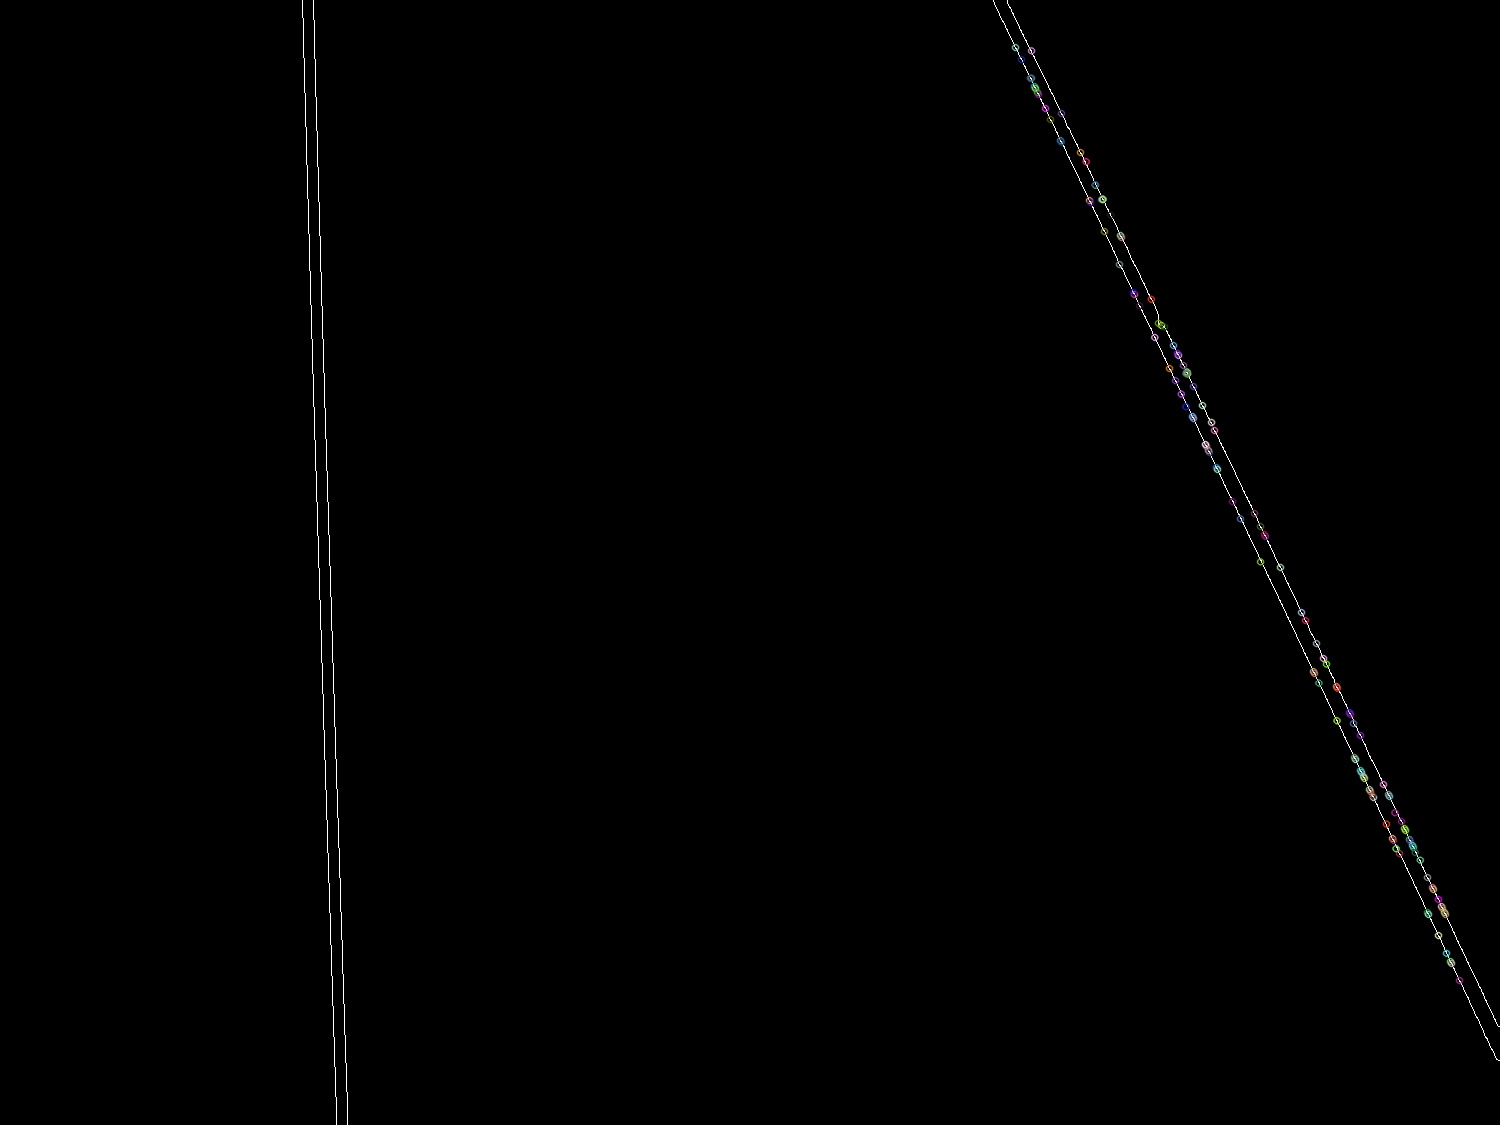
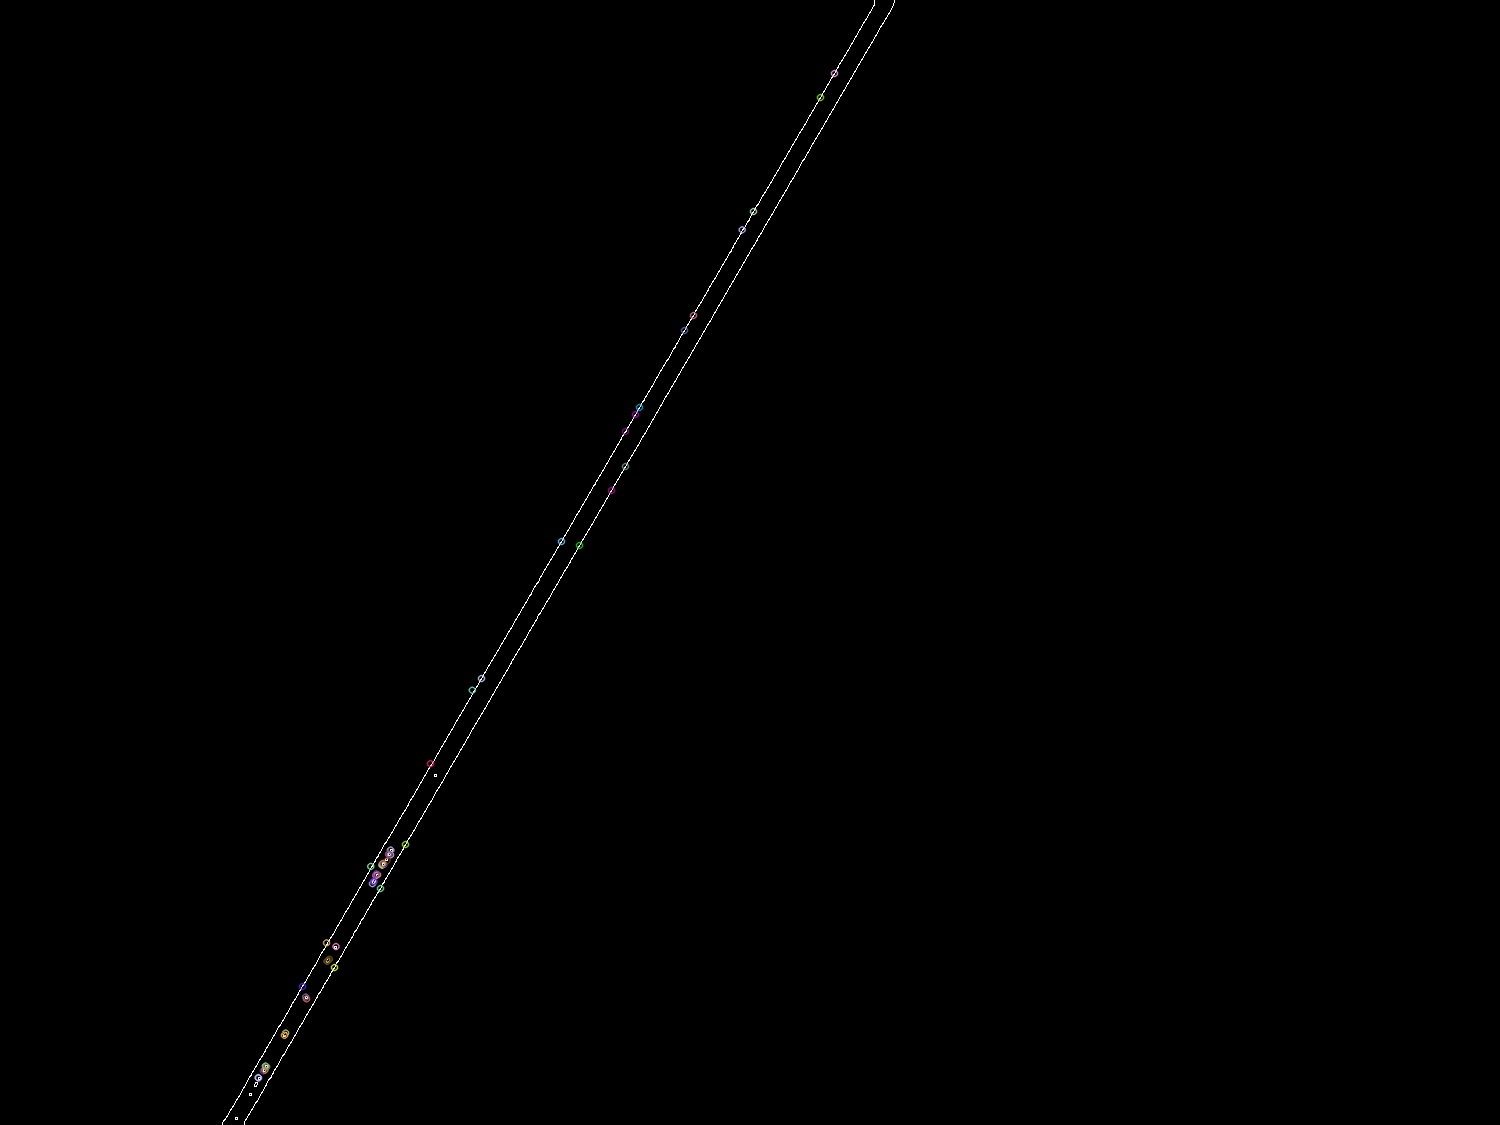
Added requirements.txt

diff --git a/crack_detection.py b/crack_detection.py
@@ -1,6 +1,7 @@
 from utils import *
 
-image_path = 'input/P1040059-s.JPG'
+# image_path = 'input/P1040059-s.JPG'
+image_path = 'input/P1040047-s.JPG'
 img = load_image(image_path)
 
 edges = canny_edge_detection(img)
